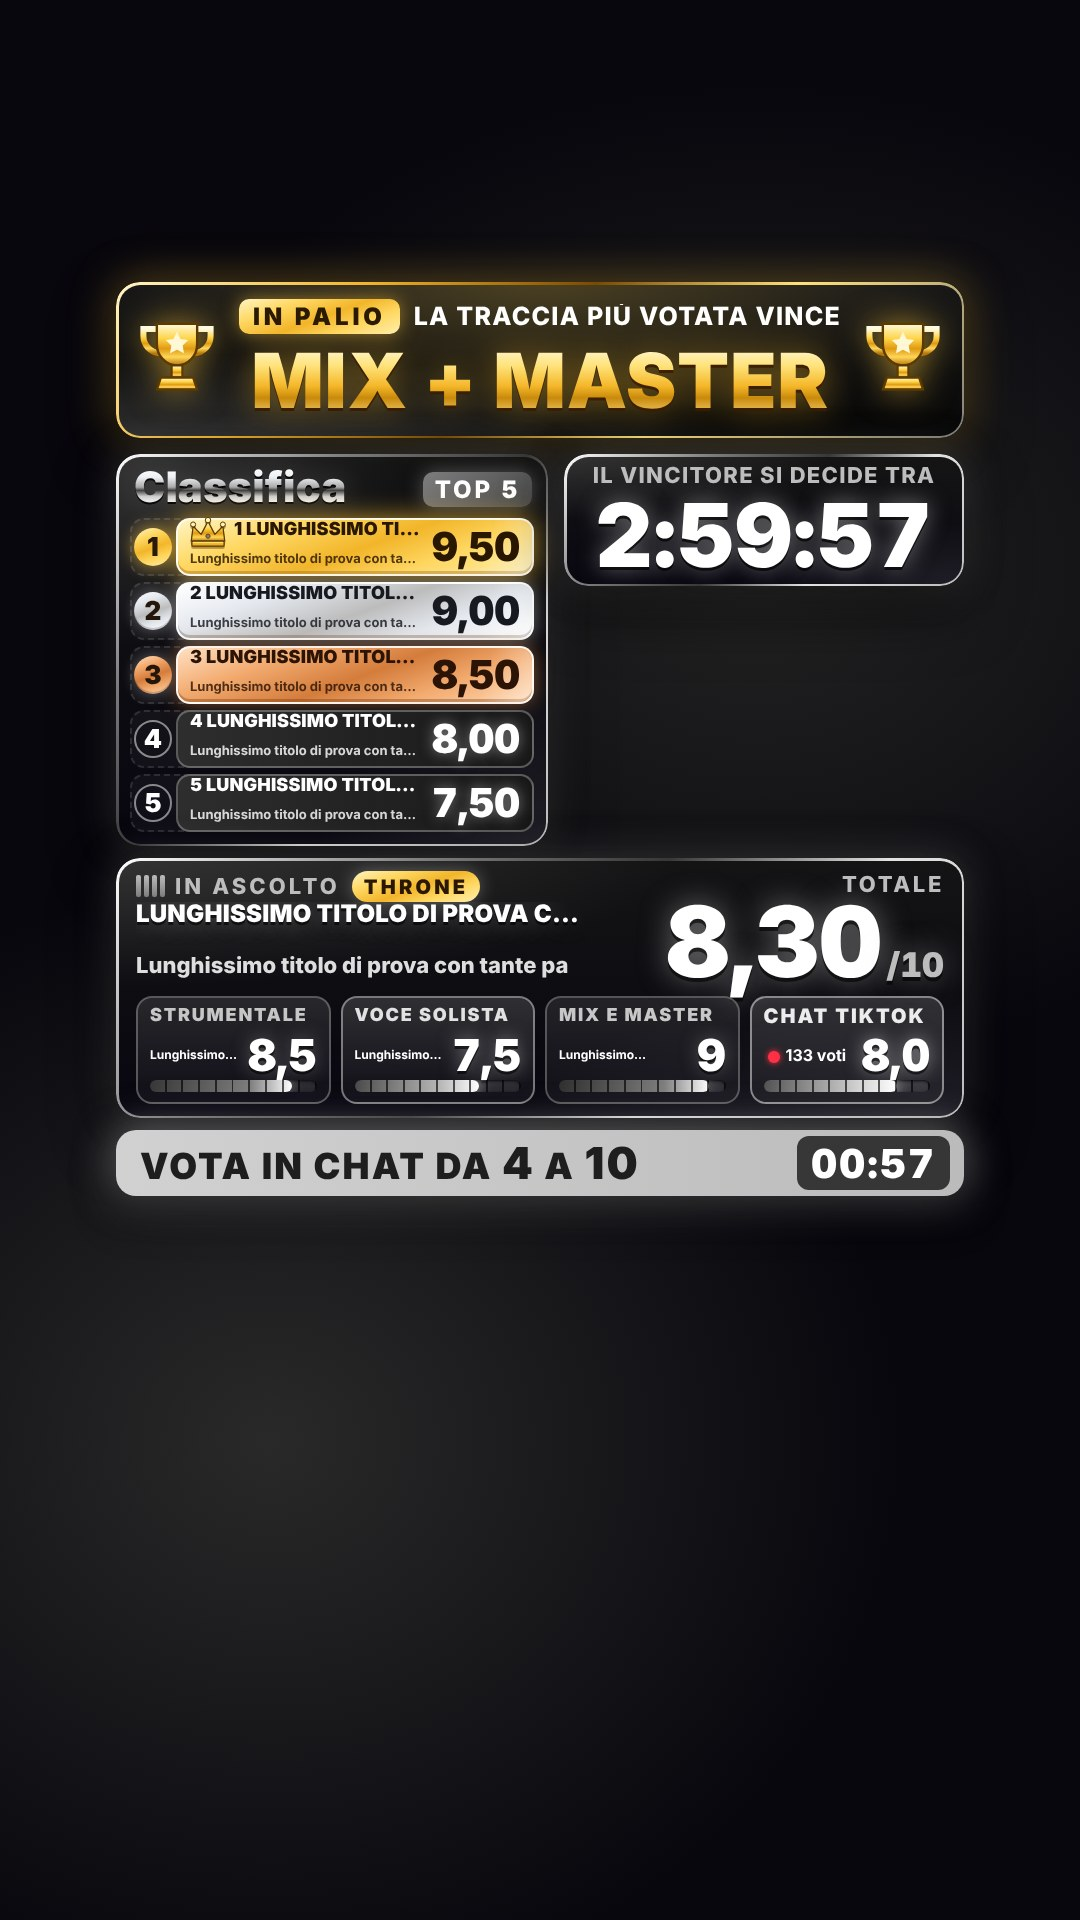
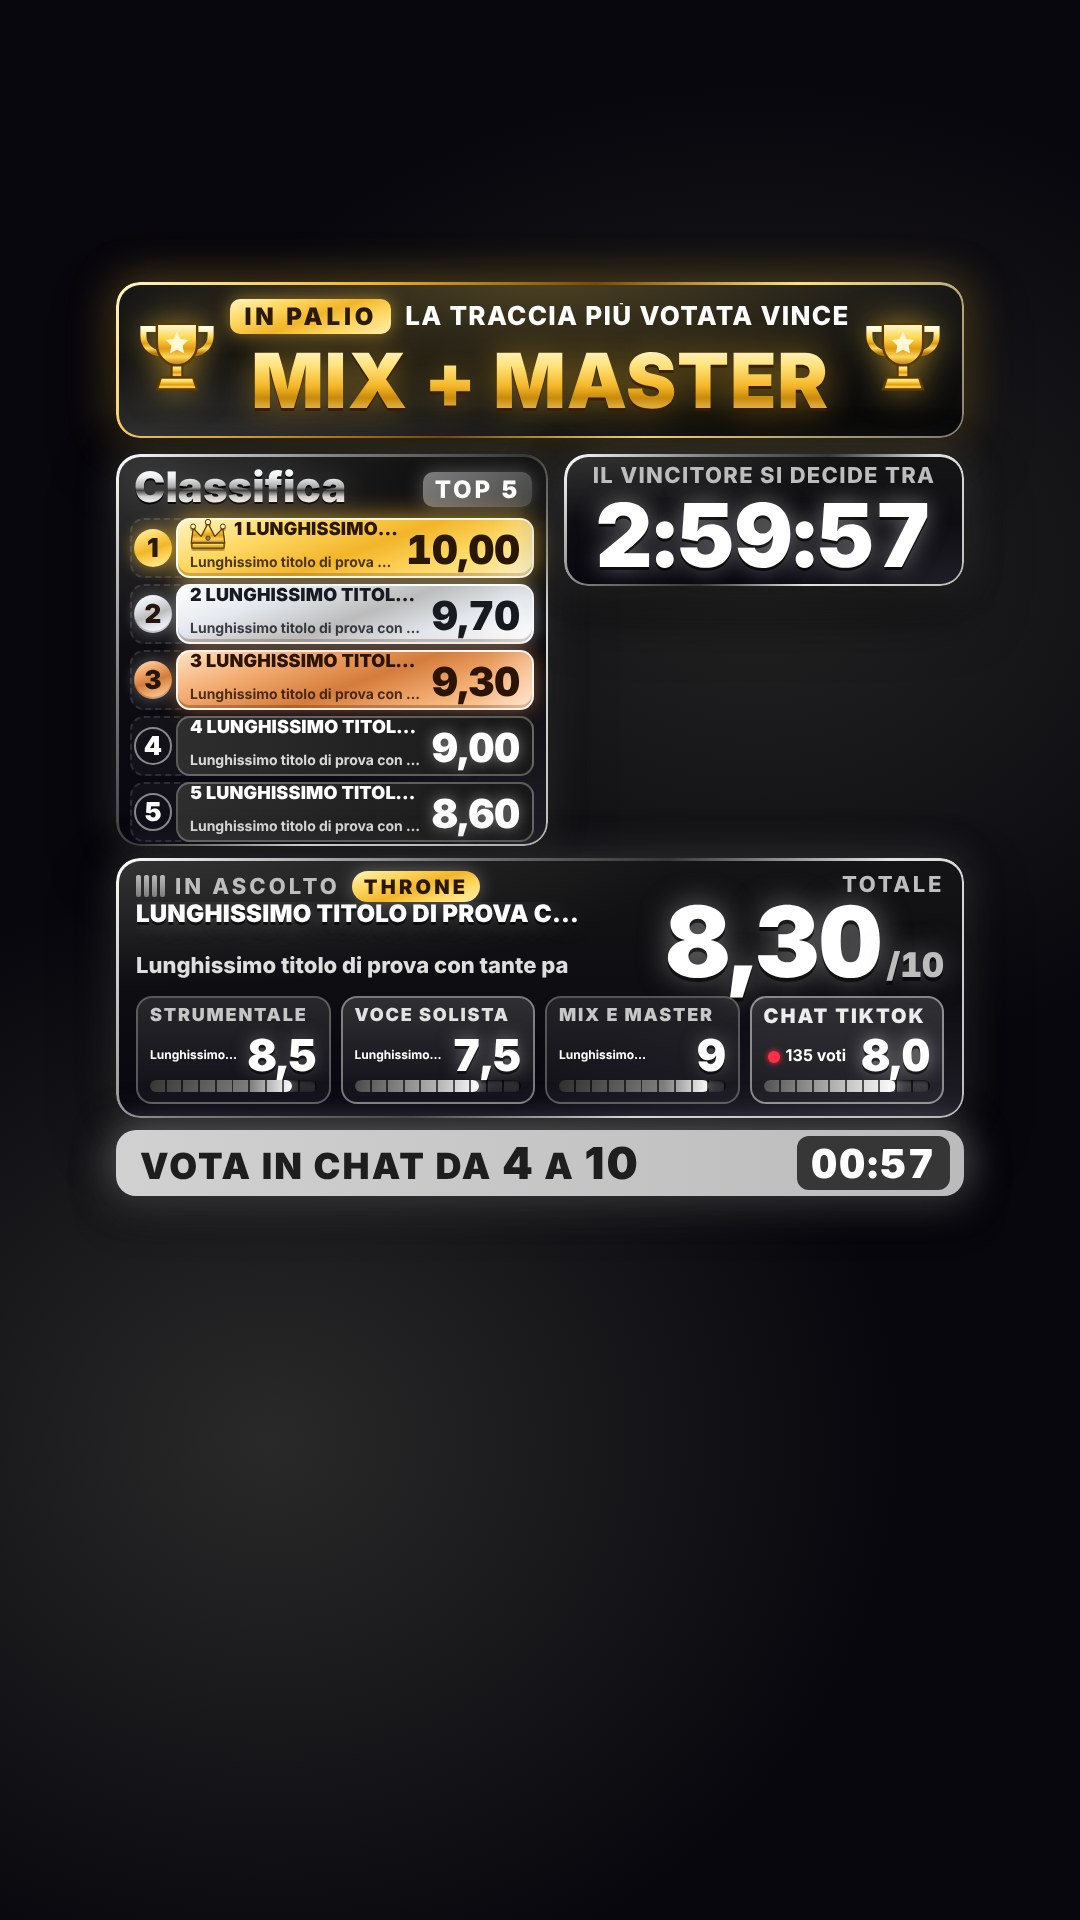
Ritocchi: coda Nero reale, scheda e barra dorate con lo skip, testi più grandi [skip netlify]
- «Traccia N di TOTALE · mancano X canzoni» con il totale vero della coda di Nero (meta.queueCount), nella barra del Senza Premio
- Senza Premio: scheda e barra dorate per Skip, Super Skip e Throne
- Classifica (nomi e artisti), voci, giudici e invito del premio con corpi più grandi
- CONTEXT_RESTORE.md: riassunto per riprendere il lavoro

Claude-Session: https://claude.ai/code/session_01KknJSv8vijv85bNpvfWr5a

Changed region(s): [[0.1222, 0.25, 0.4889, 0.4375], [0.2139, 0.1562, 0.55, 0.1875], [0.6111, 0.1562, 0.7944, 0.1875]]

diff --git a/overlay-live/public/css/senza-premio.css b/overlay-live/public/css/senza-premio.css
@@ -521,30 +521,18 @@ body.sp.anteprima {
   background: linear-gradient(135deg, transparent 30%, rgba(255, 255, 255, 0.16) 45%, transparent 60%);
 }
 
-/* Per tier: chi paga si vede (e si vede più a lungo) */
-.sp-scheda.tier-skip::before {
-  background: var(--bordo-cromo);
-}
-.sp-scheda.tier-skip {
-  box-shadow: 0 24px 60px rgba(0, 0, 0, 0.55), 0 0 34px rgba(255, 255, 255, 0.22), inset 0 1px 0 rgba(255, 255, 255, 0.16);
-}
-.sp-scheda.tier-superskip::before {
-  background: linear-gradient(135deg, #dddddd, #7e7e7e 30%, #7d7d7d 65%, #7e7e7e);
-}
-.sp-scheda.tier-superskip {
-  box-shadow: 0 24px 60px rgba(0, 0, 0, 0.55), 0 0 40px rgba(126, 126, 126, 0.45), inset 0 1px 0 rgba(255, 255, 255, 0.16);
-}
-.sp-scheda.tier-throne::before {
+/* Per tier: chi paga lo skip (Skip, Super Skip, Throne) vede la sua scheda tutta dorata; la corona resta del Throne */
+.sp-scheda:is(.tier-skip, .tier-superskip, .tier-throne)::before {
   padding: 3px;
   background: linear-gradient(135deg, #fff6c8 0%, #f2b52a 25%, #7a4a00 48%, #ffe17a 68%, #f2b52a 100%);
 }
-.sp-scheda.tier-throne {
+.sp-scheda:is(.tier-skip, .tier-superskip, .tier-throne) {
   background: radial-gradient(80% 120% at 50% 0%, rgba(255, 205, 70, 0.2), transparent 60%),
     radial-gradient(120% 90% at 0% 100%, rgba(125, 125, 125, 0.3), transparent 60%),
     linear-gradient(180deg, rgba(26, 26, 26, 0.96), rgba(8, 8, 8, 0.97));
   box-shadow: 0 24px 60px rgba(0, 0, 0, 0.55), 0 0 46px rgba(255, 196, 50, 0.5), inset 0 1px 0 rgba(255, 255, 255, 0.2);
 }
-.sp-scheda.tier-throne .sp-scheda-titolo {
+.sp-scheda:is(.tier-skip, .tier-superskip, .tier-throne) .sp-scheda-titolo {
   background: linear-gradient(105deg, transparent 40%, rgba(255, 255, 255, 0.95) 50%, transparent 60%) no-repeat, var(--oro-testo);
   background-size: 250% 100%, 100% 100%;
   background-position: 170% 0, 0 0;
@@ -558,7 +546,7 @@ body.sp.anteprima {
   display: block;
   animation: corona-arriva 1.1s cubic-bezier(0.2, 1.6, 0.3, 1) 0.5s both, corona 2.6s ease-in-out 1.6s infinite;
 }
-.sp-scheda.tier-throne .sp-etichetta-disco {
+.sp-scheda:is(.tier-skip, .tier-superskip, .tier-throne) .sp-etichetta-disco {
   background: var(--podio-oro);
 }
 
@@ -621,6 +609,11 @@ body.sp.anteprima {
   background: linear-gradient(180deg, #151515, #080610);
   box-shadow: 0 -8px 26px rgba(0, 0, 0, 0.45), 0 0 30px rgba(125, 125, 125, 0.25);
   transition: opacity 0.6s ease, transform 0.6s ease;
+}
+/* Con una traccia pagata in ascolto anche la barra diventa dorata */
+.sp-barra.pagata {
+  background: linear-gradient(180deg, #3a2800, #150f00);
+  box-shadow: 0 -8px 26px rgba(0, 0, 0, 0.45), 0 0 34px rgba(255, 196, 50, 0.55), inset 0 2px 0 #f2b52a, inset 0 -2px 0 #f2b52a;
 }
 .sp-barra.fuori {
   transform: translateY(30px) !important;

diff --git a/overlay-live/public/js/barra.js b/overlay-live/public/js/barra.js
@@ -4,6 +4,16 @@ export const ETICHETTE_TIER = { skip: "Skip", superskip: "Super Skip", throne: "
 // «Oggi abbiamo ascoltato N tracce» compare da questo numero in su (con 1 o 2 non convince nessuno).
 export const MIN_ASCOLTATE = 3;
 
+// «Traccia 15 di 38 · mancano 23 canzoni»: il numero della traccia in ascolto sul totale vero (ascoltate + ancora in coda su Nero),
+// così chi entra capisce quanta fila c'è davanti e che conviene skippare. null se la coda non si conosce o non è partito niente.
+export function avanzamentoCoda(s) {
+  const numero = s?.ascoltate;
+  const mancano = s?.codaNero;
+  if (!Number.isSafeInteger(numero) || numero < 1 || !Number.isSafeInteger(mancano) || mancano < 0) return null;
+  const resto = mancano === 0 ? "è l'ultima" : mancano === 1 ? "manca 1 canzone" : `mancano ${mancano} canzoni`;
+  return { numero, totale: numero + mancano, mancano, testo: `Traccia ${numero} di ${numero + mancano} · ${resto}` };
+}
+
 export function breve(testo, max) {
   const t = String(testo ?? "").trim();
   return t.length > max ? `${t.slice(0, max - 1).trimEnd()}…` : t;
@@ -26,8 +36,11 @@ export function vociBarra(s) {
           tier: ETICHETTE_TIER[t.tier] ? t.tier : null,
         }
       : null;
+  const avanzamento = avanzamentoCoda(s);
   const ascoltate =
-    sp.ascoltateNellaBarra && s.ascoltate >= MIN_ASCOLTATE
+    sp.ascoltateNellaBarra && avanzamento
+      ? { tipo: "ascoltate", chiave: `coda|${avanzamento.numero}|${avanzamento.totale}`, icone: ["cuffie"], etichetta: "In ascolto", testo: avanzamento.testo }
+      : sp.ascoltateNellaBarra && s.ascoltate >= MIN_ASCOLTATE
       ? { tipo: "ascoltate", chiave: `ascoltate|${s.ascoltate}`, icone: ["cuffie"], etichetta: "Oggi abbiamo ascoltato", testo: `${s.ascoltate} tracce` }
       : null;
   const [primo, ...resto] = social;

diff --git a/overlay-live/public/css/overlay.css b/overlay-live/public/css/overlay.css
@@ -180,7 +180,7 @@ body.anteprima {
   white-space: nowrap;
   overflow: hidden;
   text-overflow: ellipsis;
-  font: 800 27px/1 var(--font-dati);
+  font: 800 30px/1 var(--font-dati);
   letter-spacing: 0.05em;
   text-transform: uppercase;
   color: #fff;
@@ -251,7 +251,7 @@ body.anteprima {
 }
 
 .cl-lista {
-  --h: 58px;
+  --h: 60px;
   --gap: 6px;
   --num: 46px;
   position: relative;
@@ -392,16 +392,16 @@ body.anteprima {
 .cl-traccia-testo {
   box-sizing: border-box;
   min-width: 0;
-  height: 31px;
-  font: 900 30px/1.04 var(--font-premio);
+  height: 34px;
+  font: 900 32px/1.04 var(--font-premio);
   text-transform: uppercase;
   letter-spacing: 0.01em;
 }
 .cl-artista {
   box-sizing: border-box;
-  height: 22px;
+  height: 24px;
   margin-top: 1px;
-  font: 700 21px/1.04 var(--font-premio);
+  font: 700 22px/1.04 var(--font-premio);
   opacity: 0.82;
 }
 .cl-corona {
@@ -846,8 +846,8 @@ body.anteprima {
 .cat-nome {
   grid-area: nome;
   box-sizing: border-box;
-  height: 24px;
-  font: 900 24px/1 var(--font-dati);
+  height: 26px;
+  font: 900 26px/1 var(--font-dati);
   letter-spacing: 0.1em;
   text-transform: uppercase;
   color: var(--colore-nome);
@@ -860,9 +860,9 @@ body.anteprima {
   align-self: center;
   box-sizing: border-box;
   min-width: 0;
-  height: 28px;
+  height: 30px;
   /* testo in linea (non flex): così, se il nome non entra nemmeno al corpo minimo, finisce con i puntini */
-  font: 700 22px/28px var(--font-dati);
+  font: 700 24px/30px var(--font-dati);
   color: #fff;
   white-space: nowrap;
   overflow: hidden;

diff --git a/overlay-live/public/js/overlay.js b/overlay-live/public/js/overlay.js
@@ -123,7 +123,7 @@ function scriviInvito(testo) {
       .split(LINK)
       .map((pezzo, i) => (i % 2 ? Object.assign(document.createElement("b"), { className: "link", textContent: pezzo }) : pezzo)),
   );
-  adattaLarghezza(premio.invito, 27, 19);
+  adattaLarghezza(premio.invito, 30, 20);
 }
 
 function disegnaPremio(s) {
@@ -186,10 +186,10 @@ let timerTimbro = null;
 const CORPI = {
   titolo: [52, 24], // titolo della traccia in ascolto
   artista: [32, 18], // artista in ascolto
-  categoria: [24, 14], // nome della voce (Beat, Voce, Mix, Chat)
-  giudice: [22, 12], // nome del giudice (per la chat: «37 voti»)
-  rigaTraccia: [30, 18], // titolo di una riga della classifica
-  rigaArtista: [21, 13], // artista di una riga della classifica
+  categoria: [26, 14], // nome della voce (Beat, Voce, Mix, Chat)
+  giudice: [24, 12], // nome del giudice (per la chat: «37 voti»)
+  rigaTraccia: [32, 18], // titolo di una riga della classifica
+  rigaArtista: [22, 14], // artista di una riga della classifica
   etichettaTimer: [22, 12], // «Il vincitore si decide tra»
 };
 const adatta = (nodo, chiave) => adattaTesto(nodo, ...CORPI[chiave]);
@@ -612,7 +612,7 @@ function rimisura() {
   }
   adatta(timer.etichetta, "etichettaTimer");
   if (premio.testo.textContent) adattaLarghezza(premio.testo, 76, 40);
-  adattaLarghezza(premio.invito, 27, 19);
+  adattaLarghezza(premio.invito, 30, 20);
   for (const riga of righeClassifica.values()) {
     adatta(riga.traccia, "rigaTraccia");
     adatta(riga.artista, "rigaArtista");

diff --git a/overlay-live/public/js/senza-premio.js b/overlay-live/public/js/senza-premio.js
@@ -272,6 +272,7 @@ function disegnaBarra(s) {
   const sp = s.senzaPremio;
   barra.radice.classList.toggle("fuori", !s.visibili.barra);
   barra.radice.classList.toggle("senza-loghi", !sp.loghiBarra);
+  barra.radice.classList.toggle("pagata", Boolean(s.corrente.titolo.trim() && ETICHETTE_TIER[s.corrente.tier]));
   barra.filoCamera.classList.toggle("fuori", !(sp.filoCamera && s.visibili.barra));
 
   const nuova = vociBarra(s);

diff --git a/CONTEXT_RESTORE.md b/CONTEXT_RESTORE.md
@@ -1,0 +1,97 @@
+# CONTEXT_RESTORE — overlay-live (Backrooms Studio)
+
+Riassunto per riprendere il lavoro senza la chat. Ultimo aggiornamento: 2026-10-14.
+Branch di lavoro: `claude/practical-cannon-6wegnn` · PR #1 (verso `claude/busy-knuth-qedjne`) già aperta: NON aprirne un'altra, niente merge/publish senza via libera esplicito.
+
+## 1. Il progetto
+
+`overlay-live/` è la suite di overlay per le live TikTok di Backrooms Studio (3 liberi professionisti, studio di registrazione; obiettivo: arrivare a fatturare 10 000 €/mese). Interfaccia e testi in italiano. Node ≥ 22, ESM, `ws`, `tiktok-live-connector` 2.5.0 (+ `tiktok-live-proto/v3`). Pagine senza build, test con `node --test`, Playwright solo in `strumenti/` (installato a parte).
+
+Regole del repo (`AGENTS.md`): questo Next.js (nella radice) ha API diverse da quelle note, leggere `node_modules/next/dist/docs/` prima di toccare codice Next. L'overlay vive tutto in `overlay-live/`.
+
+## 2. Richiesta grande (approvata: brainstorming → spec → piano → esecuzione "Nativo")
+
+Restyle + refactor di tutta la suite:
+- Font San Francisco di sistema ovunque (`-apple-system, BlinkMacSystemFont, "SF Pro Display"…`, Inter come ripiego).
+- Palette in grigi; restano solo oro, rosso, smeraldo (test in `test/aspetto.test.mjs`).
+- Widget Goal globale (Like e Follower, "Mancano X al nuovo obiettivo"), su tutti i layout.
+- **Live con Premio**: voti 4–10, chat al 10% (pesi 3/3/3/1), nomi di giudici e categorie configurabili, blocco voti sopra i commenti TikTok (y 1196), testi classifica più grandi, tabellone "solo un albero con i punteggi".
+- **Senza Premio**: spot dall'alto, "Ora in ascolto" fisso colorato per tier, banner bianco SF, artista + Instagram.
+- **Live Session**: header più grande, popup DM.
+- **Reaction**: scaletta semitrasparente, richieste scatenate da un regalo e scritte a mano dalla regia.
+- **Drum**: striscia marquee, istruzione su una riga, camera più alta, niente "Brano segreto", scaletta modificabile, campo regalo.
+- **Studio Production / Podcast**: SF, testi più grandi e centrati, etichette modificabili, titoli salvati.
+- **Battle**: "Voto Chat" al posto di "Chat Votes".
+
+Documenti: spec `overlay-live/docs/superpowers/specs/2026-10-08-restyling-grigi-goal-richieste-design.md` (18 sezioni), piano `overlay-live/docs/superpowers/plans/2026-10-08-restyling-grigi-goal-richieste.md` (27 task + Review Focus), ledger `.superpowers/sdd/2026-10-08-restyling-grigi-goal-richieste/progress.md` (git-ignored; contiene tutti i `Ruling:`).
+
+## 3. Cosa è FATTO (task 1–13, 345 test verdi)
+
+| Task | Commit | Contenuto |
+|---|---|---|
+| T1 | 55e90c1 | Font SF ovunque |
+| T2 | 0b400d7 | Palette grigi + oro/rosso/smeraldo, test colori |
+| T3 | 423d913 | Battle "Voto Chat" |
+| T4 | 8a389e1 | `leggiVoto(testo,{min,max})`, `normalizzaVoto` con intervallo |
+| T5 | 95bab68 | `stato.votazione {pesi,min,max,etichette}`, comando `votazione`, pesi 3/3/3/1, voti 4–10 |
+| T6 | 1af422a | Regia "Voti della gara" (`regia-voti.js`, `votazione-logica.js`), etichette in pagina |
+| T7 | 5b59451 | Geometria verticale (tabellone y858 h260, barra chat y1130 h66), `strumenti/mockup-layout.mjs`, `test/geometria.test.mjs` |
+| T8 | d113132 | Testi adattati (`CORPI` in `overlay.js`, `adattaTesto` con controllo inchiostro in `pagina.js`), classifica righe 58 px |
+| T9 | 83368fd | `lib/albero.mjs` `costruisciAlbero` |
+| T10 | 3b88082 | Widget `albero` (stato, comando, `albero.js/css`, regia, scadenza) |
+| T11 | 502ba6a | `regaloTikTok`, `followTikTok`, ascoltatori GIFT/FOLLOW in `avviaTikTok` (opzione `creaConnessione`) |
+| T12 | 8705a89 | `lib/regali.mjs`: corrispondenza regalo, regali visti, coda richieste (max 30) |
+| T13 | 0fa0279 | `lib/goal.mjs`: obiettivi, passo, follower, posizioni, `istantaneaGoal` |
+
+(T1–T3 sono i commit 55e90c1, 0b400d7, 423d913; spec/piano: f0a07ff, fe93049.)
+
+## 4. Architettura attuale (da ricordare)
+
+- `server.mjs`: mappa `comandi` (POST `/api/<comando>` e WebSocket), `caricaConfig` (fonde `config.esempio.json`; vecchi pesi 1/1/1/1 → "non impostati"), `caricaStato` (+ riparazione campo per campo `fondi*`), `emetti`/`cambiato`, tick `setInterval` 250 ms, `nuovaSerata`/`demo` (mantengono liste, votazione, durata albero), `registraCommento`, `avviaTikTok` con `suLike`, `suNuovaConnessione`, `suRegalo`, `suFollow`, `creaConnessione`.
+- `lib/*.mjs`: funzioni pure sullo stato (`stato.mjs`, `goal.mjs`, `regali.mjs`, `albero.mjs`, `chat.mjs`, `drum.mjs`, `nero.mjs`, `validazione.mjs` con `numeroTra`, `testo`, `oggetto`, `corpo`).
+- Client: `connessione.js` (WS), `pagina.js` (`adattaTesto`), `overlay.js` (`CORPI`, `adatta`, `scrivi`, `adattaLarghezza`), `nastro.js`, widget con `data-widget`/`data-parte`, anteprime `?anteprima=1&statico=1`.
+- Geometria verticale 1080×1920: premio y282 h156, classifica y454 h392 w432, timer x564 y454 400×132, notifica y604, tabellone y858 h260, barra chat y1130 h66 (fine 1196), albero 116,282,848×914; orizzontale albero 24,16,1872×1048.
+- Test: `node --test` (aiuti: `test/aiuti-server.mjs`). Strumenti di mockup in `strumenti/` (`mockup-layout.mjs --layout gara --stato … --controlli`).
+- Commit: trailer `Co-Authored-By: Claude Sonnet 5.5 <noreply@anthropic.com>` e `Claude-Session: https://claude.ai/code/session_01KknJSv8vijv85bNpvfWr5a`; titoli che finiscono con `[skip netlify]`; push con `git push -u origin claude/practical-cannon-6wegnn` (T11–T13 e successivi non ancora pushati).
+
+## 5. Problemi risolti (tra i principali)
+
+Cella nomi troppo stretta dopo il cambio font; font-size inline che batteva il CSS; `adattaTesto` che sforava con minimi di parità diversa; etichetta timer su due righe; "10,00/10" che andava a capo; albero con ghosting (pannello ora opaco); ciclo oltre l'ultimo turno nell'albero; `WIDGET_SPENTI` fissato dai test; codec `MessageCommonText` per il testo dei follow; `controllaRichieste` che accettava `regalo` numerico; eviction delle richieste in onda.
+
+## 6. Cosa RESTA da fare
+
+### 6.1 Ritocchi grafici urgenti (fatti, commit "Ritocchi: coda Nero reale, scheda e barra dorate con lo skip, testi più grandi")
+- [x] "Traccia N di TOTALE · mancano X canzoni" (`avanzamentoCoda` in `public/js/barra.js`; `istantanea.codaNero` da `meta.queueCount` di Nero, `impostaCodaNero` in `lib/stato.mjs`): oggi compare nella **barra** del layout Senza Premio (voce «In ascolto»).
+- [ ] Mostrarlo anche in **Reaction** e **Gara** (il dato `codaNero` e `ascoltate` è già nello stato; manca il punto in pagina: T18 per la gara, T21 per Reaction). Da verificare con Nero vero che `meta.queueCount` sia il numero delle canzoni in attesa.
+- [x] Senza Premio: scheda in onda e barra dorate per Skip, Super Skip e Throne (`.sp-scheda:is(.tier-…)`, `.sp-barra.pagata`).
+- [x] Testi più grandi: classifica (titolo 32, artista 22, righe 60 px), nomi voci 26, giudici 24, invito del premio 30 (`CORPI` + CSS + `strumenti/mockup-layout.mjs`, `--controlli` verde).
+
+### 6.2 Piano (T14–T27)
+- [ ] **T14** Server: `stato.goal` e `stato.regaliVisti` (fusi in `caricaStato`, mantenuti da `nuovaSerata`/`demo`); `collegaTikTok` passa `suRegalo` e `suFollow`; comandi `goal`, `goalMostra`, `regaloEvento {nome,id?,utente,quantita?}`, `followEvento {utente,totale?}`; `istantanea.goal`/`regaliVisti`; widget `goal` acceso di partenza; test `test/goal-server.test.mjs`. Commit "Goal: stato, comandi e collegamento di follow e regali [skip netlify]".
+- [ ] **T15** Componente Goal (`public/js/goal.js`, `goal.css`) + 4 layout nuovi.
+- [ ] **T16** Goal su gara / senza premio / studio / Battle + regia `regia-goal.js`.
+- [ ] **T17** Stato Senza Premio, Instagram, Nero (coda reale → totale/mancanti).
+- [ ] **T18** Scheda fissa, spot dall'alto, colori tier (Throne/Skip/Super Skip), banner bianco SF, artista, Instagram nel tabellone gara (`--layout senzaPremio --scheda …`).
+- [ ] **T19** Studio.
+- [ ] **T20–T21** Reaction: stato, scaletta, richieste (scaletta/richiesta a y 524, targa 230 px).
+- [ ] **T22–T24** Drum: stato, pagina, regia (`drum.js` adattamento `sopra→dopo`).
+- [ ] **T25–T26** Studio Production e Podcast: stato, pagine, regia.
+- [ ] **T27** Documenti (README: righe `pesi`/`votoMin`/`etichette`, API `votazione`/`albero`; GUIDA.html), mockup, calibrazione `stimaGiroSecondi`, controlli generali.
+
+### 6.3 Chiusura
+- [ ] Revisione finale dell'intero branch con un reviewer a contesto pulito (modello più capace), `review-package PLAN MERGE_BASE HEAD` (MERGE_BASE `0d206cc` o `fe93049`), includendo il Review Focus del piano e i `Ruling:` del ledger.
+- [ ] UN solo giro di correzioni (RED→GREEN) con righe `Final:` nel ledger; minori come `Final: minor (deferred)`.
+- [ ] Push dei commit; nuovo video per telefono + zip verificato in cartella pulita (`npm ci` + test), invio con SendUserFile.
+- [ ] Messaggio finale in italiano con "Rulings I made" (tutti, in ordine) e "Deferred minors"; cancellare il workspace del piano; finishing-a-development-branch (proporre, non creare, PR/merge); offrire la sottoscrizione ai PR.
+
+### 6.4 Punti aperti noti
+- Nome del campo Instagram in Nero non verificato.
+- Regali e follow non provati con una live vera (solo messaggi scritti con lo schema v3).
+- Colori delle schede Throne/Skip/Super Skip e pillole tier da definire in T18.
+- `stimaGiroSecondi` da calibrare in T27.
+
+## 7. Come riprendere
+
+1. `git log --oneline | head` e leggere il ledger: i task con `Task N: complete` sono fatti.
+2. Strumenti dei test server: script `con-server.sh <comando…>` (server di prova su 4799) nella scratchpad della sessione; Playwright per gli screenshot (`strumenti/`).
+3. Script del flusso di esecuzione: `task-start PLAN N`, `task-done PLAN N BASE -- node --test` (skill `executing-plans`).
